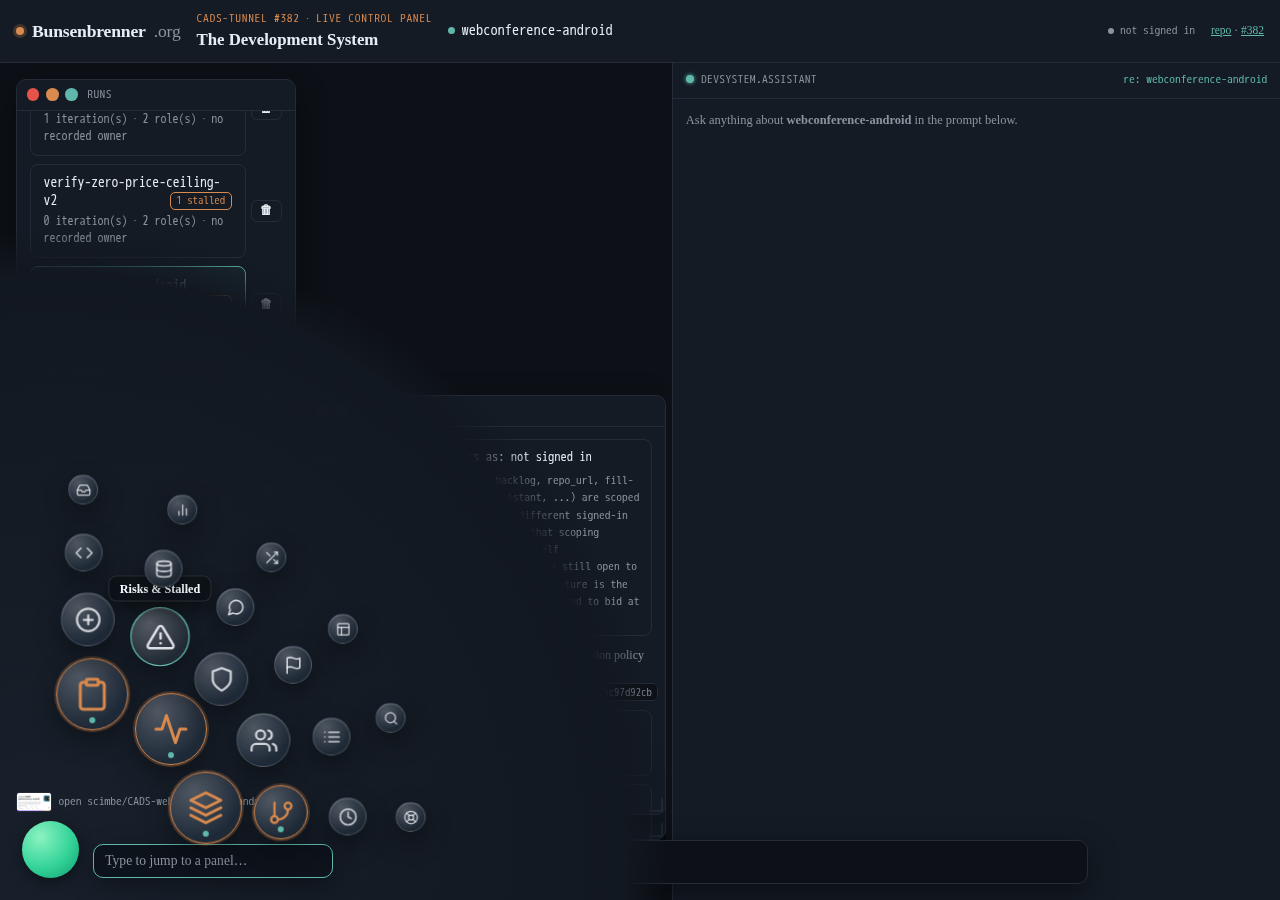
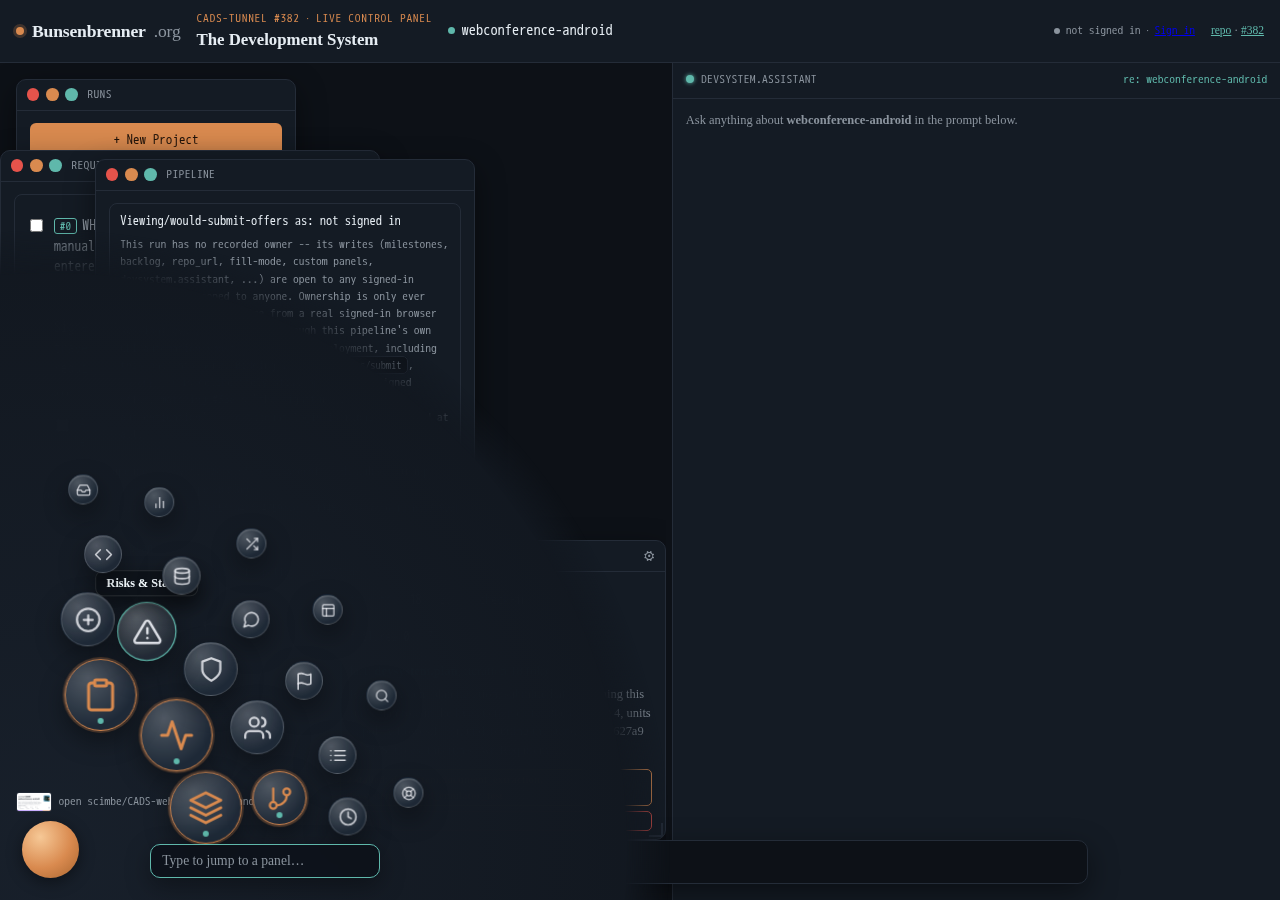
how-to/tutorial: catch up to today's launcher redesign (color, stagger, filter fix)
Three real, live GUI changes shipped to CADS-devsystem today, none
previously documented:

- The launcher dot recolored from its own one-off green to the site's real
  accent orange (CADS-devsystem@8d34e25) -- every "green dot" reference
  updated to "orange dot" across this page, work-through-open-points.md, and
  first-run.md.
- Each bubble ring now nudges a few degrees off its neighbor instead of
  every ring sharing the identical angle sequence (same commit) -- noted,
  visible in the refreshed 02-open.png.
- The filter field moved further right along the bottom edge (same commit),
  and a real, separate bug found while capturing these very screenshots --
  the field was unclickable by mouse, silently caught by the transparent
  bubble layer sitting on top of it in hit-testing, working only via
  auto-focus on open -- was found and fixed
  (CADS-devsystem@4127c6b), verified precisely via
  document.elementFromPoint() against the actual deployment before this was
  written.

All five screenshots regenerated against the actual current deployment
(Playwright, explicit exact-match run selection rather than trusting the
URL hash alone, which was intermittently landing on the wrong run).
Softened the 02-open.png caption's "real red badge on Pipeline" claim to
match what the current run actually shows (no pending proposals right now)
rather than leave a claim the screenshot can't back up.

diff --git a/_how-to/navigate-with-the-panel-launcher.md b/_how-to/navigate-with-the-panel-launcher.md
@@ -1,18 +1,18 @@
 ---
 title: Open panels with the launcher, and find every keyboard shortcut
-description: The green dot bottom-left replaced the old flat chip bar -- what it does, why panels are different sizes, and where the real Keyboard Shortcuts list lives.
+description: The orange dot bottom-left replaced the old flat chip bar -- what it does, why panels are different sizes, and where the real Keyboard Shortcuts list lives.
 order: 13
 ---
 
 # Open panels with the launcher, and find every keyboard shortcut
 
 The flat row of panel-name buttons across the top of the screen is gone (operator design ask,
-2026-08-06) -- in its place, a fixed, un-draggable green dot sits in the bottom-left corner. The top
+2026-08-06) -- in its place, a fixed, un-draggable orange dot sits in the bottom-left corner. The top
 bar itself now shows the current project's real name instead.
 
 <figure>
-<img src="{{ '/assets/img/howto-panel-launcher/01-closed.png' | relative_url }}" alt="The Development System's landing page with the flat chip bar gone, the current project name shown in the top bar instead, and a small green dot fixed in the bottom-left corner">
-<figcaption>The green dot is always there, always the same size (~1.5cm), never moves.</figcaption>
+<img src="{{ '/assets/img/howto-panel-launcher/01-closed.png' | relative_url }}" alt="The Development System's landing page with the flat chip bar gone, the current project name shown in the top bar instead, and a small orange dot fixed in the bottom-left corner">
+<figcaption>The orange dot is always there, always the same size (~1.5cm), never moves.</figcaption>
 </figure>
 
 ## Opening it
@@ -22,8 +22,8 @@ element). It unfolds into a real, animated circle segment confined to the corner
 full-screen overlay -- with every real panel shown as an icon "bubble" inside it.
 
 <figure>
-<img src="{{ '/assets/img/howto-panel-launcher/02-open.png' | relative_url }}" alt="The launcher open, showing panel icon bubbles of different sizes fanning out from the green dot in four rings, hugging the screen's left and bottom edges, with a real red badge on the Pipeline bubble" >
-<figcaption>Pipeline's real red badge here is the same live pending-proposal count the old chip bar's badge used to show -- nothing about what a badge means changed, only how it's presented.</figcaption>
+<img src="{{ '/assets/img/howto-panel-launcher/02-open.png' | relative_url }}" alt="The launcher open, showing panel icon bubbles of different sizes fanning out from the orange dot in four rings, hugging the screen's left and bottom edges, each ring offset from its neighbor rather than aligned on the same spokes" >
+<figcaption>Any bubble with a real pending proposal waiting on you carries the same live red badge the old chip bar's badge used to show -- nothing about what a badge means changed, only how it's presented (this run has none open right now, so none show here).</figcaption>
 </figure>
 
 Every bubble carries a small pictogram for its panel and, on hover or focus, a real floating
@@ -38,6 +38,11 @@ An earlier version of this launcher gave the most important panels a permanent, 
 label instead of an icon+tooltip -- reverted after live feedback: that permanent label needed real
 horizontal room, which was the actual reason the bubble rings sat so far apart from each other.
 Icon+tooltip everywhere let every ring sit much closer to the dot instead.
+
+Each ring's bubbles are also nudged a few degrees off the ring next to it (2026-08-07, live operator
+feedback) -- every ring used to share the identical angle sequence, so a bubble in one ring sat almost
+exactly on the same spoke as the one at the same position in the ring beside it. The small alternating
+offset interlocks the rings instead, visible in the fan above.
 
 ## Panels are not all the same size, on purpose
 
@@ -66,9 +71,9 @@ Live feedback after shipping the bubble-click version: hunting for one specific 
 worse than just typing a panel name, the way the Process Prompt's own `./show`/`./hide`/`./toggle`
 commands already work. Rather than dropping the visual overview, the launcher now opens with a real
 text field, already focused -- start typing and every non-matching bubble dims out of the way,
-matching bubbles get a teal highlight. It sits directly beside the dot (bottom edges aligned) rather
-than floating independently above it, per later live feedback that the two read as one control
-cluster better that way:
+matching bubbles get a teal highlight. It sits on the same bottom edge as the dot, a little further
+along it (nudged right again, 2026-08-07, live operator feedback) rather than floating independently
+above it, so the two still read as one control cluster in the corner:
 
 <figure>
 <img src="{{ '/assets/img/howto-panel-launcher/04-filter.png' | relative_url }}" alt="The launcher open with 'back' typed into its filter field, the Backlog bubble highlighted with a teal border, every other bubble dimmed out, and a real '1 match -- press Enter to open' status line under the field" >
@@ -86,6 +91,13 @@ Press **Enter** once exactly one panel matches and it opens immediately, launche
 identical matching rule (panel id or title, substring) the real `./show` command already trusts, not
 a second guess at what counts as a match. If your filter still matches more than one panel, Enter
 does nothing rather than guessing which one you meant -- keep typing (or click) instead.
+
+**A real bug in clicking this field was found and fixed, 2026-08-07**: the field is always auto-focused
+the instant the launcher opens, so typing right away always worked -- but clicking back into it after
+clicking elsewhere in the launcher silently did nothing, since the invisible bubble-fan layer sitting
+behind it in the page's own element order was catching the click first. Fixed at the source, verified
+directly against the real running page (not just visually): the field itself is now what a click
+actually lands on.
 
 ## Closing it without the keyboard
 

diff --git a/_tutorials/first-run.md b/_tutorials/first-run.md
@@ -23,8 +23,8 @@ is its own independently movable/resizable window. On your very first visit, onl
 default — enough to get oriented without being overwhelmed:
 
 <figure>
-<img src="{{ '/assets/img/tutorial-first-run/01-landing.png' | relative_url }}" alt="The GUI landing page with a small default set of panels open: Runs, Process, Pipeline, Requirements, and a small green dot fixed in the bottom-left corner">
-<figcaption>Runs, Process, Pipeline, and Requirements are open by default. Every other panel — Backlog, Milestones, Roles, Check-in, and so on — is one click away on the green dot in the bottom-left corner. See <a href="{{ '/how-to/navigate-with-the-panel-launcher/' | relative_url }}">Open panels with the launcher</a> for what it does and why panels aren't all the same size.</figcaption>
+<img src="{{ '/assets/img/tutorial-first-run/01-landing.png' | relative_url }}" alt="The GUI landing page with a small default set of panels open: Runs, Process, Pipeline, Requirements, and a small orange dot fixed in the bottom-left corner">
+<figcaption>Runs, Process, Pipeline, and Requirements are open by default. Every other panel — Backlog, Milestones, Roles, Check-in, and so on — is one click away on the orange dot in the bottom-left corner. See <a href="{{ '/how-to/navigate-with-the-panel-launcher/' | relative_url }}">Open panels with the launcher</a> for what it does and why panels aren't all the same size.</figcaption>
 </figure>
 
 ## 2. Create a new project

diff --git a/_how-to/work-through-open-points.md b/_how-to/work-through-open-points.md
@@ -11,7 +11,7 @@ role-filler's proposed pipeline stage, an assistant-drafted custom panel, a paus
 already has its own panel (Pipeline, Custom Panels, Health & Criteria), but noticing all of them
 means checking every one of those panels yourself. The **Open Points** panel is a single guided
 queue instead -- open it from the [panel launcher]({{ '/how-to/navigate-with-the-panel-launcher/' | relative_url }})
-(the green dot, bottom-left) and step through everything real, one item at a time.
+(the orange dot, bottom-left) and step through everything real, one item at a time.
 
 ## What counts as an open point
 
